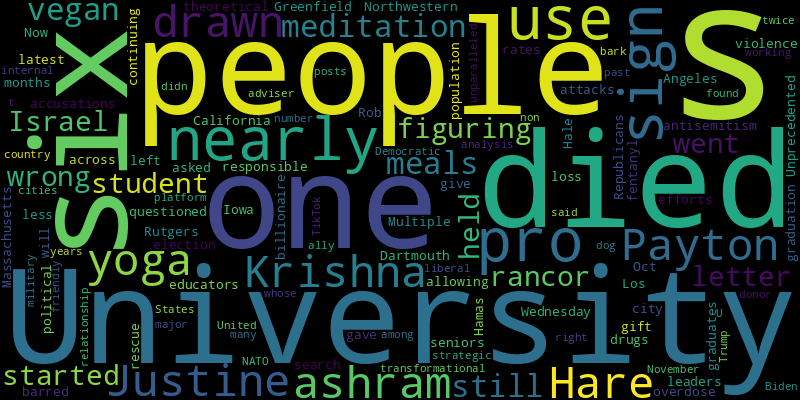
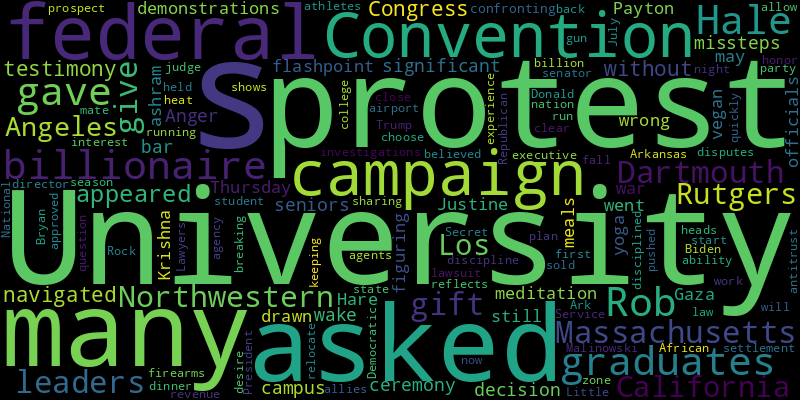
chore(bot): 😂 auto commit

diff --git a/README.md b/README.md
@@ -2,41 +2,41 @@
 Auto RSS New York Times and Generate Word Cloud
 
 ## New York Times Global News
-* Some Israeli politicians seized on the images to try to rebuff the decision by three European countries to unilaterally recognize a Palestinian state.
-* Not on its own, in all likelihood. But it reflects a growing, global exasperation with Israel that might eventually lend momentum to a two-state solution.
-* Strong wind caused the collapse in northern Mexico as a presidential hopeful campaigned for a local candidate, officials said. Dozens of people were injured.
-* China said the sea and air drills were meant as a “stern warning” to its opponents after Taiwan’s new president asserted the island’s sovereignty in defiance of Beijing.
-* For decades, international soldiers have deployed to Haiti, sometimes leaving behind a troubled legacy.
-* Despite a relatively wet spring, government officials are warning that persistent drought across Western Canada could leave the region vulnerable to major fires.
-* After setting a very high bar for his party in the election, Prime Minister Narendra Modi often appears on the defensive as the voting nears its end.
-* New Caledonia, a French territory in the Pacific, is on the brink of civil war as pro-independence activists protest a law that would expand voting rights.
-* The president, who died in a helicopter crash, will be buried at a shrine in the northeastern city of Mashhad, his hometown.
-* What to know about Karim Khan’s decision to seek arrest warrants for three Hamas leaders as well as Israel’s prime minister, Benjamin Netanyahu, and defense minister, Yoav Gallant.
+* South Africa has requested that the International Court of Justice in The Hague order Israel to halt its ground assault in southern Gaza.
+* Aid officials and health experts expect famine this month unless Israel lifts barriers to aid, the fighting stops and vital services are restored.
+* Russia has deployed advanced tech to interfere with Elon Musk’s satellite internet service, Ukrainian officials said, leading to more outages on the northern front battle line.
+* At least 50 convicts have been freed under a new law that allows them to serve in exchange for the possibility of parole, part of an effort to replenish Ukraine’s depleted forces.
+* With a focus on affordability, community, convenience and light, Liu Thai Ker replaced squalid slums with spacious high-rises. A recent spike in some sale prices, however, has saddened him.
+* Singapore’s public housing system has been a great success and a key factor in the nation’s development. But in recent years, rising prices have raised questions about affordability.
+* The success of Barcelona’s team has made Catalonia a laboratory for finding out what happens when the women’s game has prominence similar to the men’s.
+* The Pentagon predicted that a stream of humanitarian aid would be arriving in Gaza via the floating pier, but little relief has reached the besieged strip, officials acknowledged this week.
+* In Safed, a center of kabbalah, ordinary citizens shocked by the Oct. 7 attacks are carrying military-grade weapons.
+* The exclusion is a sign that domestic troubles for the Alternative for Germany party are starting to spill into European Union politics before elections.
 
 ![Global](./global.png)
 ## New York Times United States News
-* Justine Payton was drawn to a Hare Krishna ashram for its yoga, meditation and vegan meals. She’s still figuring out what went wrong.
-* The rancor started with a student letter that held Israel responsible for the violence of the Oct. 7 Hamas attacks. Now, 13 seniors are barred from graduation.
-* The leaders of Northwestern, Rutgers and the University of California, Los Angeles, will be the latest educators questioned by Republicans over accusations of allowing antisemitism.
-* Multiple people died in Greenfield, Iowa, population 2,000, where search and rescue efforts were continuing on Wednesday.
 * The billionaire Rob Hale gave the 1,200 graduates of the University of Massachusetts Dartmouth a gift, and asked them to give, too.
-* Unprecedented overdose rates from fentanyl and other drugs have left signs of loss across the city.
-* With less than six months until the 2024 election, the political uses of A.I. are more theoretical than transformational. “This is the dog that didn’t bark,” said one adviser to a Democratic donor.
-* An internal analysis found nearly twice as many pro-Trump posts as pro-Biden ones on TikTok since November, a sign of the right’s use of a liberal-friendly platform.
-* A “major non-NATO ally” is a country whose military has a strategic working relationship with the United States.
-* Nearly 6,000 people have died over the past six years — an unparalleled number among U.S. cities.
+* The leaders of Northwestern, Rutgers and the University of California, Los Angeles, appeared to have navigated their testimony before Congress without many significant missteps.
+* Anger at the university’s decision to bar 13 seniors from the ceremony in the wake of campus demonstrations over the war in Gaza was a flashpoint for the protest on Thursday.
+* Justine Payton was drawn to a Hare Krishna ashram for its yoga, meditation and vegan meals. She’s still figuring out what went wrong.
+* Many officials may be confronting federal investigations, disputes over student discipline — and the prospect that the protests start all over again in the fall.
+* Donald Trump’s interest in the Arkansas senator reflects a desire to choose a running mate with experience and the ability to run a disciplined campaign.
+* Bryan Malinowski was the executive director of the airport in Little Rock, Ark., and sold firearms at gun shows. Federal agents believed he was breaking the law.
+* If approved by a judge, the $2.8 billion settlement of an antitrust lawsuit would allow for the first revenue-sharing plan for college athletes. The question now: How will it work?
+* The state dinner was held in honor of the African nation, but it was clear that the night was about keeping Democratic allies close as President Biden heads into the heat of the 2024 campaign season.
+* Lawyers for the Republican National Convention asked again for the Secret Service to relocate a protest zone for the party’s convention in July. The agency quickly pushed back.
 
 ![US](./usnews.png)
 ## New York Times Asia News
+* Singapore’s public housing system has been a great success and a key factor in the nation’s development. But in recent years, rising prices have raised questions about affordability.
+* With a focus on affordability, community, convenience and light, Liu Thai Ker replaced squalid slums with spacious high-rises. A recent spike in some sale prices, however, has saddened him.
+* A new approach by China’s top leaders is bold but pales against the problem: a vast number of empty apartments no one wants to buy.
+* Also, China holds ‘punishment’ drills around Taiwan.
 * After setting a very high bar for his party in the election, Prime Minister Narendra Modi often appears on the defensive as the voting nears its end.
 * China said the sea and air drills were meant as a “stern warning” to its opponents after Taiwan’s new president asserted the island’s sovereignty in defiance of Beijing.
 * New Caledonia, a French territory in the Pacific, is on the brink of civil war as pro-independence activists protest a law that would expand voting rights.
 * Plus, three European countries recognize a Palestinian state.
 * Justine Payton was drawn to a Hare Krishna ashram for its yoga, meditation and vegan meals. She’s still figuring out what went wrong.
 * Singapore Airlines flight SQ321 was a rare instance of turbulence resulting in a death.
-* The bipartisan request for a criminal inquiry relies on a law that gives the Justice Department the power to prosecute doping offenses that do not occur in the United States.
-* Charged with defrauding thousands of investors in the U.S. and overseas of more than $1 billion, Guo Wengui could face decades in prison.
-* How the United States backed kidnapping, torture and murder in Afghanistan.
-* The end of the war in Afghanistan and the fall of its government allowed us to reach previously inaccessible records, places and people, documenting the bloody history of a key American ally.
 
 ![Asian](./asian.png)
